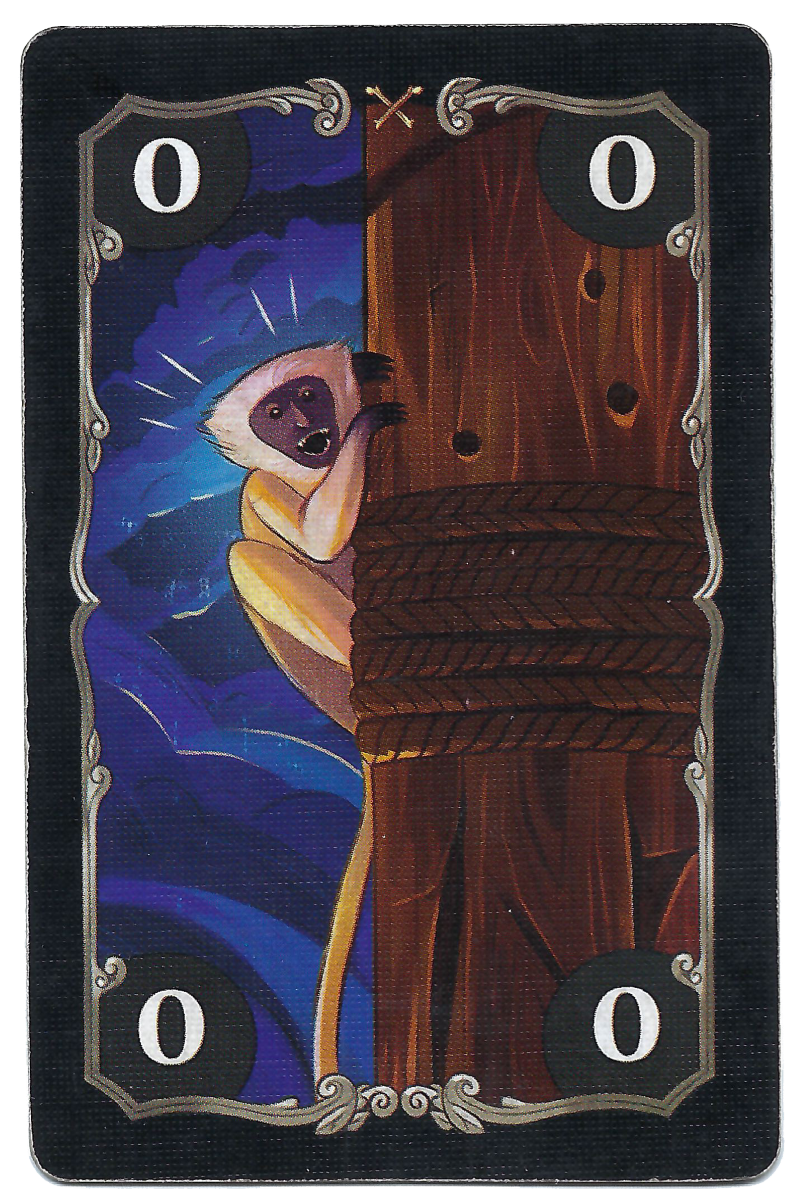
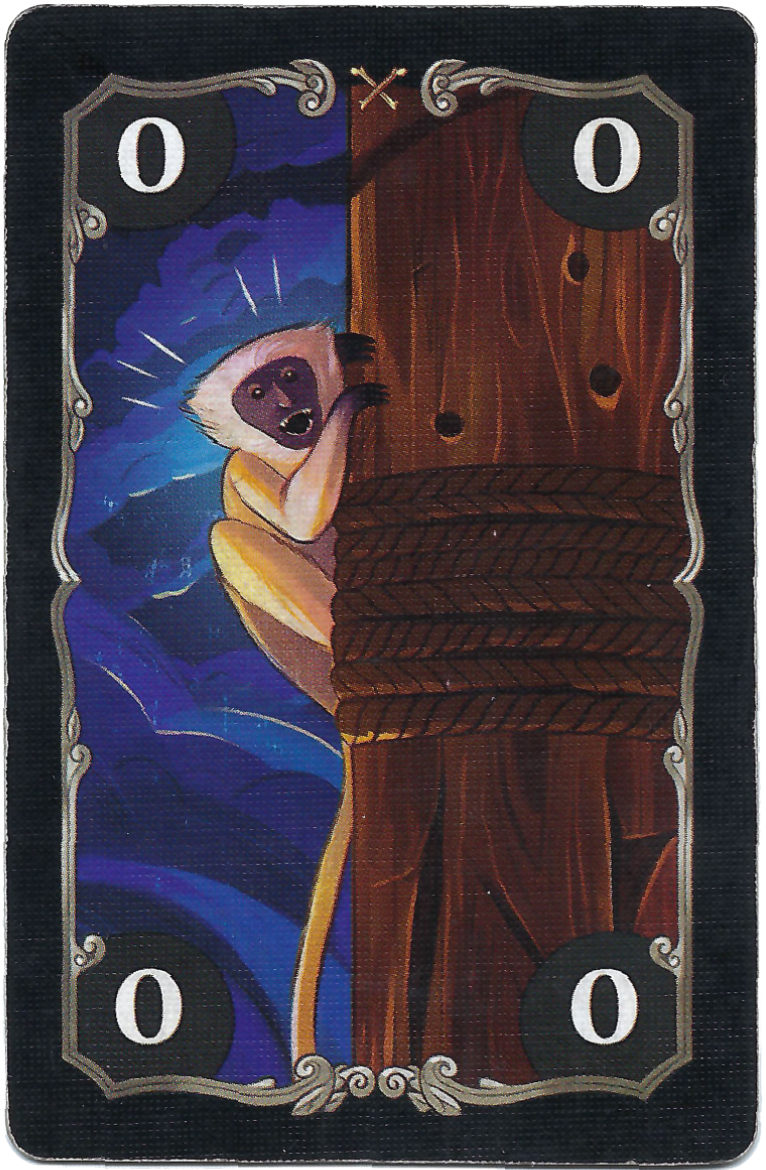
small changes

diff --git a/SkullQueenServer/Round.cs b/SkullQueenServer/Round.cs
@@ -37,6 +37,7 @@ namespace SkullQueenServer
             await Task.WhenAll(players.Select(player => GetAndSetPlank(player)));
             Utility.DisplayPlanks(players);
 
+            Utility.BroadCastMiddleCards(players, centerCards);
 
             // Starting the game loop
             GameLoop();
@@ -62,17 +63,7 @@ namespace SkullQueenServer
                 startPlayer = currentTrick.StartTrick(startPlayer);
                 centerCards = currentTrick.centerCards;
 
-                // Sending middle cards to client
-                string message = "";
-                foreach (Card card in centerCards)
-                {
-                    message += card.ToString() + " ";
-                }
-                Debug.WriteLine("Message: " + message);
-
-                Utility.BroadCast(players, Command.DisplayMiddleCards, message);
-
-
+                Utility.BroadCastMiddleCards(players, centerCards);
                 Utility.BroadCast(players, Command.ClearPlayedCards);
             }
         }
@@ -86,6 +77,10 @@ namespace SkullQueenServer
                     player.ReceiveCard(card);
                 }
             }
+            Console.WriteLine(deck.Count);
+
+            // Adding any remaining cards to the middle
+            centerCards.AddRange(deck);
         }
         public Queue<Card> CreateAndShuffleDeck()
         {

diff --git a/SkullQueenServer/Utility.cs b/SkullQueenServer/Utility.cs
@@ -22,5 +22,17 @@ namespace SkullQueenServer
                 Utility.BroadCast(players, Command.DisplayOpponentPlank, player.name + " " + player.plank.ToString(), player);
             }
         }
+        public static void BroadCastMiddleCards(List<Player> players, List<Card> centerCards)
+        {
+            // Sending middle cards to client
+            string message = "";
+            foreach (Card card in centerCards)
+            {
+                message += card.ToString() + " ";
+            }
+
+            Utility.BroadCast(players, Command.DisplayMiddleCards, message);
+
+        }
     }
 }